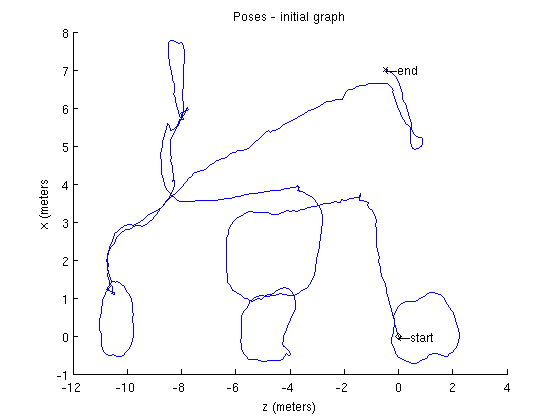
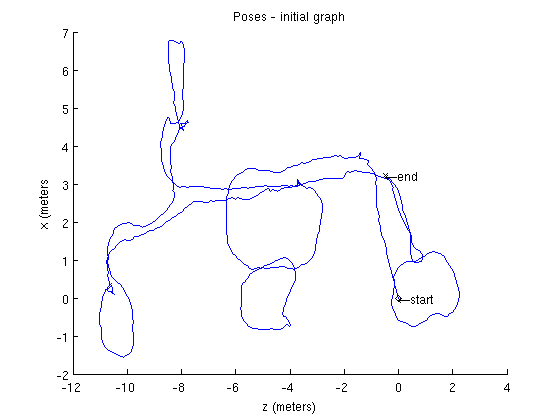
update thesis

diff --git a/doc/contents.tex b/doc/contents.tex
@@ -4,6 +4,13 @@ To navigate in an unknown environment, a mobile robot needs to build a map of th
 
 Generally, the main problem raised with \gls{SLAM} comes from the measurement errors, due to the sensors noise. Probablistic models are widely used to reduce these errors and provide satisfying estimations. While this process is generally based on data provided by sensors such as laser scanners, or odometry data, \gls{VSLAM} focuses on the use of camera. 
 
+\begin{figure}[h!]
+\begin{center}
+\includegraphics[width=1.0\textwidth]{figures/visual_slam}
+\caption{General idea of Visual SLAM - the poses of the camera (and therefore of the robot) are determined by the information given by the video. The estimations can lead to a drift with respect to the real trajectory.}
+\end{center}
+\end{figure}
+
 \section{Context}
 
 Currently, most of robotic mapping is performed using sensors that offers only a 2D cross section of the environment around them. The reason for this is ways of acquiring high quality 3D data were either very expensive or had hard constraints on the robot movements. However, recently there has been a great interest in processing data acquired using depth measuring sensors due to the availability of cheap and high performance RGB-D cameras. For instance, the Kinect Camera developed by Prime Sense and Microsoft has considerably changed the situation, providing a 3D camera at a very affordable price, with a particular interest for the research projects in robotics.
@@ -96,16 +103,21 @@ This is a method to detect distinctive, invariant image feature points, which ea
 The main idea of the \gls{SIFT} method is to define a cascade of operations following an increasing complexity, so that the most expensive operations are only performed to the most probable candidates.
 \begin{enumerate}
 \item The first step relies on a pyramid of \gls{DoG} in order to be invariant to scale and orientation.
-\item From this, stable  keypoints are determined with a more accurate model.
+\item From this, stable keypoints are determined with a more accurate model.
 \item The image gradient directions is then used to assign one or more orientations to the keypoints.
 \item The local image gradients are then transformed to be stable against distortion and changes in illumination.
 \end{enumerate}
 
-\emph{Difference-of-Gaussian}
+\emph{Detector}
 
-Most of these concepts concerning the study of the scale space are based on the works of Lindeberg~\cite{Lindeberg_1994}. First off, the scale space is defined as the convolution of an image $I$ with a Gaussian $G$ with variance $\sigma$.
+Most of these concepts concerning the study of the scale space are based on the works of Lindeberg~\cite{Lindeberg_1994}. The general concept is shown in \ref{fig:sift_dog}. First off, the scale space is defined as the convolution of an image $I$ with a Gaussian $G$ with variance $\sigma$.
 
 \[ L(x,y,\sigma) = G(x,y,\sigma) * I(x,y) \]
+
+where
+
+\[ G(x,y,\sigma) = \frac{1}{2\pi\sigma^2}e^{-{(x^2+y^2)/2\sigma^2}} \]
+
 
 The \gls{DoG} is the difference between two layers in scale space along the $\sigma$ axis:
 
@@ -116,7 +128,7 @@ D(x,y,\sigma) & = & (G(x,y, k\sigma) - G(x,y,\sigma)) * I(x,y) \\
 \end{array}
 \] 
 
-This provides a close approximation to the scale-normalized laplacian of Gaussian:
+This provides a close approximation to the scale-normalized Laplacian of Gaussian $\sigma^2\nabla^2G$, as shown by Lindeberg ~\cite{Lindeberg_1994}:
 
 \[ \sigma\nabla^2G = \frac{\partial G}{\partial \sigma} \approx \frac{G(x,y,k\sigma)-G(x,y,\sigma)}{k\sigma - \sigma} \]
 
@@ -124,22 +136,30 @@ and therefore:
 
 \[ G(x,y,k\sigma) - G(x,y,\sigma) \approx (k-1)\sigma^2\nabla^2G \]
 
-Then the localization of the keypoints is done by finding the extrema in the \gls{DoG}. 
+The $\sigma^2$ factor allows the scale invariance. Then, the localization of the keypoints is done by finding the extrema in the \gls{DoG}, which approximates the Laplacian $\sigma^2\nabla^2G$. Lowe shows that the remaining factor $(k-1)$ does not influence the location. 
 
+\begin{figure}[h]
+\centering
+\includegraphics[width=0.8\textwidth]{figures/sift_dog}
+\caption{Difference of Gaussians at different scales (courtesy of David Lowe) - For each octave of the scale space, the image is convolved with a Gaussian, which variance $\sigma$ is multiplied each time by a constant factor. Two consecutive results are substracted to give the DoG which approximates the Laplacian of Gaussian. After each octave, the image is downsampled by two, and the process is repeated doubling the variance $\sigma$. The initial value of $\sigma$ can be changed accordingly to the type of application. }
+\label{fig:sift_dog}
+\end{figure}
 
+\paragraph{}
 \emph{Descriptor}
 
-In order to provide a good basis for the matching, the descriptor has to be highly distinctive and invariant to remaining variations such as change in illumination or 3D viewpoint. The \gls{SIFT} descriptor is based on a \gls{HoG} around the keypoint. It is stored as a 128 dimensional feature vector (with 8 orientation bins for each of 4x4 subregion).
+In order to provide a good basis for the matching, the descriptor has to be highly distinctive and invariant to remaining variations such as change in illumination or 3D viewpoint. The \gls{SIFT} descriptor is based on a \gls{HoG} around the keypoint. It is stored as a 128 dimensional feature vector (4x4 descriptor with 8 orientation bins). The figure \ref{fig:sift_descriptor} illustrates this concept with a smaller 2x2 descriptor.
 
-\begin{figure}[H]
+\begin{figure}[h]
 \centering
 \includegraphics[width=0.8\textwidth]{figures/sift_descriptor}
-\caption{SIFT descriptor (courtesy of David Lowe) - illustration of how the gradient directions are accumulated into orientation histograms around the center of the region defined by the keypoint. The gradients are first weighted by a Gaussian window represented by the circle. From the 8x8 sample, a 2x2 descriptor is computed this way.}
+\caption{SIFT descriptor (courtesy of David Lowe) - illustration of how the gradient directions are accumulated into orientation histograms around the center of the region defined by the keypoint. The gradients are first weighted by a Gaussian window represented by the circle. From the 8x8 sample, a 2x2 descriptor is computed this way, where each bin covers a 4x4 subregion.}
+\label{fig:sift_descriptor}
 \end{figure}
 
 Once the keypoints are found and the descriptors computed, the next step is to be able to perform fast searches on the features in order to identify candidate matching. Refer to the method described in~\cite{lowe_2004_sift} for further details.
 
-\begin{figure}[H]
+\begin{figure}[h]
 \centering
 \includegraphics[width=0.8\textwidth]{pictures/sift_matches_robhess}
 \caption{SIFT features matched between the two images}
@@ -150,7 +170,7 @@ For this work, we use the \gls{SIFT} library developed by Rob Hess~\cite{hess_si
 \subsection{SURF feature}
 
 \glsreset{SURF}
-The \gls{SURF} is a robust image detector \& descriptor~\cite{surf}, that can be used in computer vision tasks like object recognition or 3D reconstruction. It is partly inspired by the \gls{SIFT} descriptor, both are using local gradient histograms. The main difference concerns the performance, lowering the computational time through an efficient use of integral images for the image convolutions, hessian matrix-based detector (optimized through approximations of the second order Gaussian partial derivatives), and sums of approximated 2D Haar wavelet responses for the descriptor. The standard version of \gls{SURF} is several times faster than \gls{SIFT} and claimed by its authors to be more robust against different image transformations than \gls{SIFT}. A comparison is done in this work.
+The \gls{SURF} is a robust image detector \& descriptor~\cite{surf}, that can be used in computer vision tasks like object recognition or 3D reconstruction. It is partly inspired by the \gls{SIFT} descriptor, both are using local gradient histograms. The main difference concerns the performance, lowering the computational time through an efficient use of integral images for the image convolutions, hessian matrix-based detector (optimized through approximations of the second order Gaussian partial derivatives), and sums of approximated 2D Haar wavelet responses for the descriptor. The standard version of \gls{SURF} is several times faster than \gls{SIFT} and claimed by its authors to be more robust against different image transformations than \gls{SIFT}.
 
 \begin{figure}[H]
 \centering
@@ -196,7 +216,7 @@ The \gls{NARF} is presented by Bastian Steder in~\cite{steder10irosws}. It is me
 \subsection{BRIEF feature}
 
 \glsreset{BRIEF}
-The \glspl{BRIEF} presented in~\cite{Calonder10-brief} are an efficient alternative for the descriptor by computing  binary strings directly from image patches and using Hamming distance instead of the $L_2$ norm commonly used on higher dimension descriptors. This gain of performance concerns the extraction of the descriptor and also the matching. The use of a \gls{BRIEF} descriptor supposes the keypoints are already known, which can be done with a detector such as \gls{SIFT} or \gls{SURF}. A deeper study is available in the PhD thesis of Calonder~\cite{Calonder10_PhD}, which is the main author of the \gls{BRIEF} features. This document presents comparative evaluation of \gls{BRIEF}, \gls{SIFT} and \gls{SURF}.
+The \gls{BRIEF} presented in~\cite{Calonder10-brief} is an efficient alternative for the descriptor by computing  binary strings directly from image patches and using Hamming distance instead of the $L_2$ norm commonly used on higher dimension descriptors. This gain of performance concerns the extraction of the descriptor and also the matching. The use of a \gls{BRIEF} descriptor supposes the keypoints are already known, which can be done with a detector such as \gls{SIFT} or \gls{SURF}. A deeper study is available in the PhD thesis of Calonder~\cite{Calonder10_PhD}, which is the main author of the \gls{BRIEF} features. This document presents comparative evaluation of \gls{BRIEF}, \gls{SIFT} and \gls{SURF}.
 
 \section{Computing a transformation}
 
@@ -336,7 +356,7 @@ Practically, there are many parameters to define how the \gls{SIFT} features are
 \section{Initial Matching}
 
 Now that the features can be computed, it is possible to perform some feature matching between a couple of frames, to get the initial matches. This is done through a nearest neighbour search, using the euclidian distance of these features.  
-The \gls{SIFT} Library~\cite{hess_sift} proposes an implementation based on kd-tree search. For each feature in the target frame, the 2 nearest neighbours are searched in the source frame. If these neighbours are close enough (with respect to a fixed threshold), then the result is considered to be valid. This first search is done on the 2D features. To increase robustness, matches are rejected for those keypoints for which the ratio of the nearest neighbor distance to the second nearest neighbor distance is greater than a given threshold, set to 0.5 here. 
+The \gls{SIFT} Library~\cite{hess_sift} proposes an implementation of the Best Bin Search described by Lowe~\cite{lowe_2004_sift}, based on kd-tree. For each feature in the target frame, the 2 nearest neighbours are searched in the source frame. If these neighbours are close enough (with respect to a fixed threshold), then the result is considered to be valid. This first search is done on the 2D features. To increase robustness, matches are rejected for those keypoints for which the ratio of the nearest neighbor distance to the second nearest neighbor distance is greater than a given threshold, set to 0.5 here. 
 After this, the depth information is used to keep the features that are close enough. A relative ratio is used.
 
 \begin{figure}[H]
@@ -370,14 +390,14 @@ z: width,\:positive\:to\:the\:right\\
 \caption{The two different coordinate systems, from the "screen" (as seen by the sensors RGB-D) to the 3D scene in the real world.}
 \end{figure}
 
-From the depth value (given in mm by OpenNI) and the x and y screen coordinates (with RGB color and a resolution of 640x480 pixels), it is possible to compute the points coordinates in 3D :
+From the depth value (given in mm by OpenNI) and the screen coordinates (with RGB color and a resolution of 640x480 pixels), it is possible to compute the points coordinates in 3D. Let (u,v) be the point coordinates in pixels, we have then:
 
 \[
 P(x,y,z)\left\{
 \begin{array}{l}
 x = depth \\
-y = (480/2 - y_{screen}) * depth / focal\_length \\
-z = (x_{screen} - 640/2) * depth / focal\_length \\
+y = -(v - 480/2) * depth / focal\_length \\
+z = (u - 640/2) * depth / focal\_length \\
 \end{array}
 \right.
 \]
@@ -479,8 +499,44 @@ The corresponding values can be used to measure and detect this kind of situatio
 
 Instead of using the ratio of inliers as the criterion to measure the quality of the model, the variance could be used, not only as an evaluation of the goodness ("score") but also as a criterion for the selection of the k elements of each sample. For example, the initial elements would have above a minimal distance from the mean, set by a threshold.
 
-\section{Type of features}
-After testing and getting good results with the \gls{SIFT} feature, the \gls{SURF} features~\cite{surf} were tested. The implementation of OpenCV was used. We noticed a considerable gain in performance for a similar number of features, which also depends on the parameters such as the number of octaves and the variance of the Gaussian. For a scene requiring about 1000ms with \gls{SIFT}, the extraction of the \gls{SURF} feature takes about 250ms, meaning that the time is reduced by a factor of 4 which is considerable.
+\section{Comparison of SIFT/SURF features}
+After testing and getting good results with the \gls{SIFT} feature, the \gls{SURF} features~\cite{surf} were tested. The implementation of OpenCV was used. We noticed a considerable gain in performance for a similar number of features. Globally, for a scene requiring about 1000ms with \gls{SIFT}, the extraction of the \gls{SURF} feature takes about 250ms, meaning that the time is reduced by a factor of 4 which is considerable.
+However, both algorithms have various parameters that will result in more or less features at the cost of computional time. These parameters are for example the number of octaves, and the Hessian threshold for SURF. In order to compare both methods, we first tried to find a configuration of parameters giving similar number of features, using a dataset of 6474 frames described in chapter \ref{chap:experiments}. For an image of 640x480 pixels, the number of octaves set in the SIFT Library is 6. By setting the same number of octaves at 6 and a Hessian threshold of 300 for \gls{SURF}, we get a very close number of features. We then compare with the default settings which implies a number of octaves of 3 and a Hessian threshold of 500. The results are summarized in \ref{tab:stats_features}.
+
+\begin{table}[h!]
+ \begin{tabular}{r|lll}
+ & SIFT 6 & SURF 6/300 &  SURF 3/500 \\
+ \hline
+ Number of features (ratio) & 745 & 711 (x0.95) & 384 (x0.51) \\
+ Time, in ms (gain) & 894 & 345 (x2.6) & 178 (x5) \\
+ Time by feature, in ms (gain) & 1.407 & 0.582 (x2.4) & 0.586 (x2.4) \\
+ \end{tabular}
+\caption{Comparison of SIFT and SURF features, averaged for 6474 frames. For a similar number of features, SURF is about 3 times faster than SIFT. For half number of features, the gain is a factor 5. For various settings of SURF, the time by feature remains constant.}
+\label{tab:stats_features}
+\end{table}
+
+\begin{figure}[h!]
+\begin{center}
+\includegraphics[width=1.0\textwidth]{figures/stats_features_nb}
+\caption{Comparison of SIFT/SURF - Number of features. Default SIFT and SURF 6/300 are similar. Parameters SURF 3/500 give half number of features.}
+\end{center}
+\end{figure}
+
+\begin{figure}[h!]
+\begin{center}
+\includegraphics[width=1.0\textwidth]{figures/stats_features_time}
+\caption{Comparison of SIFT/SURF - Time for computing features. SURF is fastest than SIFT for similar number of features. For different SURF parameters, the time is linearly proportional to the number of features (x2 faster for x2 less features).}
+\end{center}
+\end{figure}
+
+\begin{figure}[h!]
+\begin{center}
+\includegraphics[width=1.0\textwidth]{figures/stats_features_tbf}
+\caption{Comparison of SIFT/SURF - Average time by feature. SURF is fastest and it does not depend on the given parameters.}
+\end{center}
+\end{figure}
+
+\clearpage
 
 \section{Summary}
 
@@ -579,6 +635,13 @@ We presented how the poses can be estimated, first by cumulating each transforma
 
 Now that the main aspects concerning the graph and the reconstruction have been studied a software was developed, which goal is to acquire data from the Kinect, and from this compute the camera poses and produce a map. In order to repeat the experiments with different parameters, the data is saved and the program is able to replay a given sequence from a list of RGB-D files.
 
+\begin{figure}[h!]
+\begin{center}
+\includegraphics[width=1.0\textwidth]{figures/overview}
+\caption{Overview of the system}
+\end{center}
+\end{figure}
+
 With the given program, it is possible to build a map with the camera positions representing the trajectory and orientation of the robot. The following sections describes how the input data was acquired and how the output is generated. The next sections present the maps obtained from different datasets, first from \gls{KTH}, at different scales (1 room, 2 and 4 rooms with corridor). The last section shows the results obtained with data from other universities. 
 
 \section{Software implementation}
@@ -653,6 +716,8 @@ The result are the positions of the cameras, and the map represented by a point 
 
 Generally, only one output file is produced but this could still lead to a big file in case of a large map. In this case, the total number of points can still be relatively important and a too high rate of subsampling would lead to a map of low quality. By setting a threshold for the size of the final point cloud file, it can be splitted in several subfiles each time the threshold is reached during the reconstruction of the global map. The result is then divided in different files. This allows to keep a low subsampling rate, and still to visualize a portion of the global scene with a good definition. For the visualization of the point clouds, the standard viewer provided in \gls{PCL} is used.
 
+\clearpage
+
 \section{Map CVAP, one room}
 
 \subsection{Without loop closures}
@@ -702,7 +767,7 @@ This map is built from a sequence containing one room, the graph is optimized wi
  \subfloat[]{\label{fig:poses_4r_1_1} \includegraphics[width=0.6\textwidth]{figures/poses_4r_odometry_raw}} \\
  \subfloat[]{\label{fig:poses_4r_1_2} \includegraphics[width=0.6\textwidth]{figures/poses_4r_initial}}
  \end{array}$
-\caption{Estimation of the poses - \protect\subref{fig:poses_4r_1_1} From standard odometry, raw data. Note the drift. \protect\subref{fig:poses_4r_1_2} With this system, initial graph. Note the similarity of the angular drift with the standard odometry, while the two sources are different. }
+\caption{Estimation of the poses - \protect\subref{fig:poses_4r_1_1} From standard odometry, raw data. Note the drift, as the start and end points should be pretty close. \protect\subref{fig:poses_4r_1_2} With this system, initial graph. }
 \end{figure}
 
 \subsection{With loop closure}
@@ -722,7 +787,7 @@ This map is built from a sequence containing one room, the graph is optimized wi
  \subfloat[]{\label{fig:poses_4r_2_1} \includegraphics[width=0.6\textwidth]{figures/poses_4r_initial}} \\
  \subfloat[]{\label{fig:poses_4r_2_2} \includegraphics[width=0.6\textwidth]{figures/poses_4r_optimized}}
  \end{array}$
-\caption{Estimation of the poses - \protect\subref{fig:poses_4r_2_1} With the initial graph.  \protect\subref{fig:poses_4r_2_2} With the optimized graph. }
+\caption{Estimation of the poses - \protect\subref{fig:poses_4r_2_1} With the initial graph.  \protect\subref{fig:poses_4r_2_2} With the optimized graph. There is a slight variation. }
 \end{figure}
 
 \begin{figure}[H]
@@ -735,6 +800,15 @@ This map is built from a sequence containing one room, the graph is optimized wi
 \centering
 \includegraphics[width=1\textwidth]{figures/cvap_7th_4r_surf}
 \caption{Trajectory overlayed on the reference map of the 7th floor, with SURF features.}
+\end{figure}
+
+\begin{figure}[H]
+\centering$
+ \begin{array}{c}
+ \includegraphics[width=1.0\textwidth]{figures/drift_y_sift} \\
+ \includegraphics[width=1.0\textwidth]{figures/drift_y_surf}
+ \end{array}$
+\caption{Analysis of the vertical drift. Coordinate Y has been rescaled to origin. Considering the camera is fixed on a support, the value should stay close to zero.}
 \end{figure}
 
 \clearpage
